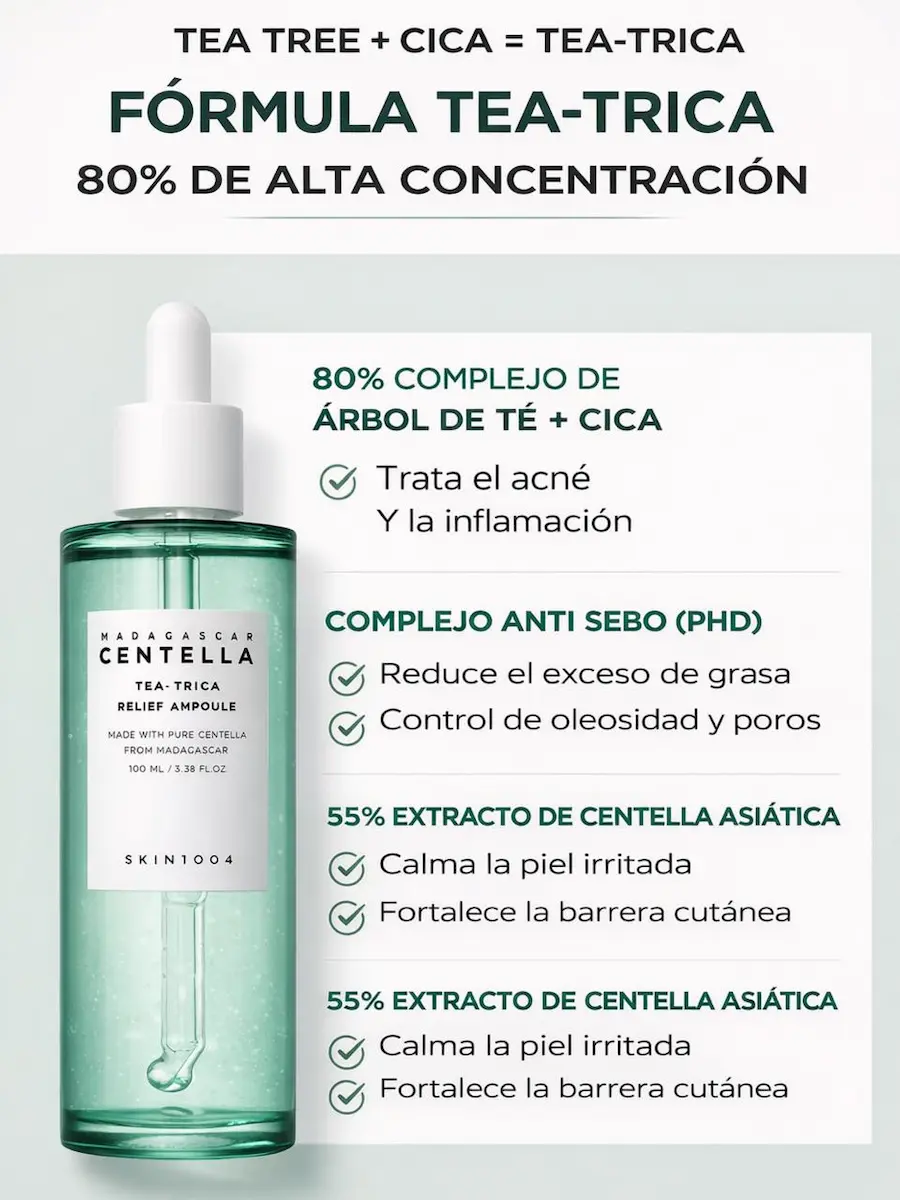
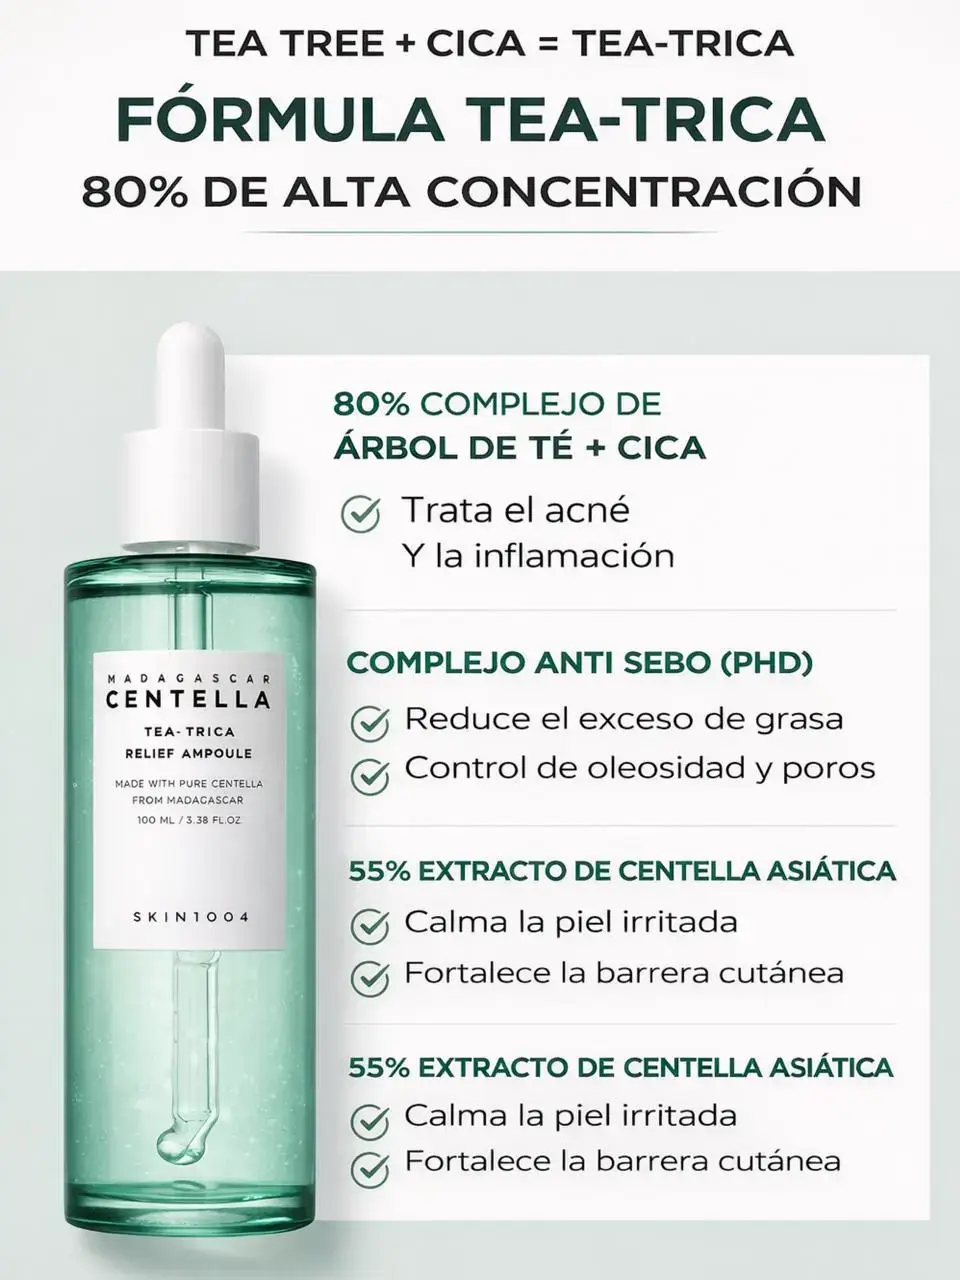
images

Changed region(s): [[0.56, 0.3392, 0.5911, 0.37]]

diff --git a/src/data/products.ts b/src/data/products.ts
@@ -7,7 +7,7 @@ export const products: Product[] = [
     price: "$25.099",
     category: "Sérum",
     image: "/images/products/madagascar-centella-ampoule.webp",
-    gallery: ["/images/gallery/madagascar-centella-ampoule/2.jpeg", "/images/gallery/madagascar-centella-ampoule/3.jpeg"],
+    gallery: ["/images/gallery/madagascar-centella-ampoule/2.webp", "/images/gallery/madagascar-centella-ampoule/3.jpeg"],
     description: "<strong>Sérum de textura liviana pensado para calmar piel sensible, enrojecida, irritada o alterada por brotes.</strong> La centella asiática se usa para ayudar a disminuir la inflamación, reforzar la barrera cutánea y mejorar la recuperación de la piel cuando está reactiva, deshidratada o sensibilizada por otros activos. Es una opción muy buena para quienes sienten tirantez, ardor, rojeces o piel “estresada”.",
     idealFor: "piel sensible, con rojeces, sensibilizada, mixta o con tendencia al acné."
   },
@@ -27,7 +27,7 @@ export const products: Product[] = [
     price: "$22.899",
     category: "Sérum",
     image: "/images/products/poremizing-fresh-ampoule.webp",
-    gallery: ["/images/gallery/poremizing-fresh-ampoule/2.jpeg", "/images/gallery/poremizing-fresh-ampoule/3.jpeg"],
+    gallery: ["/images/gallery/poremizing-fresh-ampoule/2.webp", "/images/gallery/poremizing-fresh-ampoule/3.jpeg"],
     description: "<strong>Sérum para quienes buscan una piel con menos brillo, textura más uniforme y poros visualmente menos marcados.</strong> Está orientado a ayudar a regular el exceso de grasa y a mejorar la apariencia de poros dilatados, sobre todo en zona T. Es útil en rutinas para piel mixta o grasa que quiere tratamiento específico pero con acabado liviano.",
     idealFor: "piel mixta/grasa, poros visibles, textura irregular."
   },
@@ -37,7 +37,7 @@ export const products: Product[] = [
     price: "$20.999",
     category: "Sérum",
     image: "/images/products/tone-brightening-capsule-ampoule.webp",
-    gallery: ["/images/gallery/tone-brightening-capsule-ampoule/2.jpeg", "/images/gallery/tone-brightening-capsule-ampoule/3.jpeg"],
+    gallery: ["/images/gallery/tone-brightening-capsule-ampoule/2.webp", "/images/gallery/tone-brightening-capsule-ampoule/3.jpeg"],
     description: "<strong>Sérum iluminador pensado para tono desigual, piel apagada, marcas post-acné o manchas leves.</strong> Su función principal es ayudar a que la piel se vea más luminosa, pareja y descansada, mejorando visualmente la opacidad. Es una buena opción cuando la preocupación principal no es el acné activo, sino las marcas o falta de brillo.",
     idealFor: "piel opaca, con manchas, marcas post-brote o tono desparejo."
   },
@@ -47,7 +47,7 @@ export const products: Product[] = [
     price: "$30.499",
     category: "Sérum",
     image: "/images/products/probio-cica-intensive-ampoule.webp",
-    gallery: ["/images/gallery/probio-cica-intensive-ampoule/2.jpeg", "/images/gallery/probio-cica-intensive-ampoule/3.jpeg"],
+    gallery: ["/images/gallery/probio-cica-intensive-ampoule/2.webp", "/images/gallery/probio-cica-intensive-ampoule/3.jpeg"],
     description: "<strong>Sérum reparador pensado para reforzar la piel cuando está sensible, débil, deshidratada o fácilmente irritable.</strong> Ayuda a mejorar la sensación de confort, a reducir reactividad y a complementar rutinas de recuperación cutánea.",
     idealFor: "piel sensible, seca, enrojecida o sensibilizada por activos. Ideales para pieles maduras también."
   },
@@ -57,7 +57,7 @@ export const products: Product[] = [
     price: "$30.999",
     category: "Limpiador Facial",
     image: "/images/products/madagascar-centella-light-cleansing-oil.webp",
-    gallery: ["/images/gallery/madagascar-centella-light-cleansing-oil/2.jpeg", "/images/gallery/madagascar-centella-light-cleansing-oil/3.jpeg"],
+    gallery: ["/images/gallery/madagascar-centella-light-cleansing-oil/2.webp", "/images/gallery/madagascar-centella-light-cleansing-oil/3.jpeg"],
     description: "<strong>Aceite limpiador para el primer paso de la doble limpieza.</strong> Su función es disolver protector solar, maquillaje, exceso de sebo e impurezas acumuladas durante el día, ayudando a dejar la piel más limpia sin frotar de más. Es especialmente útil si se usa protector solar todos los días o maquillaje resistente.",
     idealFor: "todo tipo de piel; muy útil en rutinas nocturnas."
   },
@@ -67,7 +67,7 @@ export const products: Product[] = [
     price: "$28.399",
     category: "Limpiador Facial",
     image: "/images/products/madagascar-centella-ampoule-foam.webp",
-    gallery: ["/images/gallery/madagascar-centella-ampoule-foam/2.jpeg", "/images/gallery/madagascar-centella-ampoule-foam/3.jpeg"],
+    gallery: ["/images/gallery/madagascar-centella-ampoule-foam/2.webp", "/images/gallery/madagascar-centella-ampoule-foam/3.jpeg"],
     description: "<strong>Limpiador al agua pensado para el segundo paso de limpieza, o como limpiador principal si no usás maquillaje.</strong> Ayuda a retirar restos de suciedad y oleosidad sin dejar sensación agresiva. Al estar orientado a una línea de centella, apunta a una limpieza que se sienta más respetuosa con piel sensible o sensibilizada.",
     idealFor: "piel sensible, normal, mixta o quienes buscan limpieza sin resecar."
   },
@@ -77,7 +77,7 @@ export const products: Product[] = [
     price: "$28.099",
     category: "Limpiador Facial",
     image: "/images/products/poremizing-deep-cleansing-foam.webp",
-    gallery: ["/images/gallery/poremizing-deep-cleansing-foam/2.jpeg", "/images/gallery/poremizing-deep-cleansing-foam/3.jpeg"],
+    gallery: ["/images/gallery/poremizing-deep-cleansing-foam/2.webp", "/images/gallery/poremizing-deep-cleansing-foam/3.jpeg"],
     description: "<strong>Limpiador enfocado en piel con poros notorios, sensación de grasa y necesidad de limpieza más profunda.</strong> Ayuda a retirar suciedad y sebo acumulado para que la piel se vea más fresca y con textura más uniforme.",
     idealFor: "piel mixta, grasa o con tendencia a congestión."
   },
@@ -87,7 +87,7 @@ export const products: Product[] = [
     price: "$28.399",
     category: "Limpiador Facial",
     image: "/images/products/acne-skin-relief-cleanser.webp",
-    gallery: ["/images/gallery/acne-skin-relief-cleanser/2.jpeg", "/images/gallery/acne-skin-relief-cleanser/3.jpeg"],
+    gallery: ["/images/gallery/acne-skin-relief-cleanser/2.webp", "/images/gallery/acne-skin-relief-cleanser/3.jpeg"],
     description: "<strong>Limpiador orientado a piel con brotes, exceso de sebo y sensación de suciedad acumulada.</strong> Su función es acompañar rutinas antiacné limpiando la piel sin dejarla pesada, y ayudar a mantener una superficie más limpia para reducir congestión.",
     idealFor: "piel grasa, acneica o con brotes frecuentes."
   },
@@ -97,7 +97,7 @@ export const products: Product[] = [
     price: "$33.199",
     category: "Tónico",
     image: "/images/products/madagascar-centella-toning-toner.webp",
-    gallery: ["/images/gallery/madagascar-centella-toning-toner/2.jpeg", "/images/gallery/madagascar-centella-toning-toner/3.jpeg"],
+    gallery: ["/images/gallery/madagascar-centella-toning-toner/2.webp", "/images/gallery/madagascar-centella-toning-toner/3.jpeg"],
     description: "<strong>Tónico diseñado para usar después de limpiar, con foco en hidratar, suavizar y preparar la piel para que reciba mejor serums y cremas.</strong> Ayuda a que la piel no quede tirante después del lavado y aporta una primera capa de humectación. Puede venir muy bien cuando la piel está deshidratada pero no necesariamente seca.",
     idealFor: "todo tipo de piel, especialmente deshidratada o sensible."
   },
@@ -107,7 +107,7 @@ export const products: Product[] = [
     price: "$31.399",
     category: "Tónico",
     image: "/images/products/poremizing-toner.webp",
-    gallery: ["/images/gallery/poremizing-toner/2.jpeg", "/images/gallery/poremizing-toner/3.jpeg"],
+    gallery: ["/images/gallery/poremizing-toner/2.webp", "/images/gallery/poremizing-toner/3.jpeg"],
     description: "<strong>Tónico pensado para complementar una rutina orientada a poros, textura y control de oleosidad.</strong> Ayuda a que la piel se vea más equilibrada y a mantener una sensación más fresca después de la limpieza.",
     idealFor: "piel con poros visibles, mixta o grasa."
   },
@@ -117,7 +117,7 @@ export const products: Product[] = [
     price: "$34.299",
     category: "Tónico",
     image: "/images/products/probio-cica-essence-toner.webp",
-    gallery: ["/images/gallery/probio-cica-essence-toner/2.jpeg", "/images/gallery/probio-cica-essence-toner/3.jpeg"],
+    gallery: ["/images/gallery/probio-cica-essence-toner/2.webp", "/images/gallery/probio-cica-essence-toner/3.jpeg"],
     description: "<strong>Tónico con enfoque reparador, pensado para piel que necesita calma + hidratación + refuerzo de barrera.</strong> La combinación “cica + ceramidas” apunta a ayudar en casos de piel frágil, sensibilizada o que pierde agua con facilidad.",
     idealFor: "piel sensible, seca, deshidratada o con barrera debilitada, y pieles maduras."
   },
@@ -127,7 +127,7 @@ export const products: Product[] = [
     price: "$32.699",
     category: "Crema Hidratante",
     image: "/images/products/madagascar-centella-soothing-cream.webp",
-    gallery: ["/images/gallery/madagascar-centella-soothing-cream/2.jpeg", "/images/gallery/madagascar-centella-soothing-cream/3.jpeg"],
+    gallery: ["/images/gallery/madagascar-centella-soothing-cream/2.webp", "/images/gallery/madagascar-centella-soothing-cream/3.jpeg"],
     description: "<strong>Crema hidratante pensada para calmar, sellar hidratación y mantener la piel confortable.</strong> Ayuda a disminuir la sensación de ardor, tirantez o sensibilidad, y acompaña bien rutinas donde se usan activos más fuertes o donde la piel necesita recuperación.",
     idealFor: "piel sensible, enrojecida, deshidratada o alterada."
   },
@@ -137,7 +137,7 @@ export const products: Product[] = [
     price: "$27.599",
     category: "Crema Hidratante",
     image: "/images/products/poremizing-light-gel-cream.webp",
-    gallery: ["/images/gallery/poremizing-light-gel-cream/whatsapp-image-2026-03-17-at-10.13.27-pm.jpeg", "/images/gallery/poremizing-light-gel-cream/whatsapp-image-2026-03-17-at-10.13.28-pm-(1).jpeg", "/images/gallery/poremizing-light-gel-cream/whatsapp-image-2026-03-17-at-10.13.28-pm.jpeg"],
+    gallery: ["/images/gallery/poremizing-light-gel-cream/2.webp", "/images/gallery/poremizing-light-gel-cream/3.jpeg"],
     description: "<strong>Hidratante en gel de textura liviana, ideal para quienes necesitan hidratación pero no toleran cremas pesadas.</strong> Está pensada para dejar la piel hidratada, más fresca y sin sensación grasosa, acompañando rutinas de poros o control de sebo.",
     idealFor: "piel mixta, grasa o con tendencia a brillo."
   },
@@ -147,7 +147,7 @@ export const products: Product[] = [
     price: "$34.099",
     category: "Crema Hidratante",
     image: "/images/products/probio-cica-enrich-cream.webp",
-    gallery: ["/images/gallery/probio-cica-enrich-cream/2.jpeg", "/images/gallery/probio-cica-enrich-cream/3.jpeg"],
+    gallery: ["/images/gallery/probio-cica-enrich-cream/2.webp", "/images/gallery/probio-cica-enrich-cream/3.jpeg"],
     description: "<strong>Crema pensada para reforzar la barrera cutánea y mejorar la retención de hidratación.</strong> Está más orientada a pieles que sienten sequedad, descamación, sensibilidad o incomodidad, y que necesitan una crema con rol más reparador y protector.",
     idealFor: "piel seca, sensibilizada, con barrera alterada o deshidratada."
   },
@@ -157,7 +157,7 @@ export const products: Product[] = [
     price: "$27.799",
     category: "Crema Hidratante",
     image: "/images/products/tea-trica-intensive-soothing-cream.webp",
-    gallery: ["/images/gallery/tea-trica-intensive-soothing-cream/2.jpeg", "/images/gallery/tea-trica-intensive-soothing-cream/3.jpeg"],
+    gallery: ["/images/gallery/tea-trica-intensive-soothing-cream/2.webp", "/images/gallery/tea-trica-intensive-soothing-cream/3.jpeg"],
     description: "<strong>Crema calmante enfocada en piel irritada, enrojecida o sensibilizada.</strong> Su objetivo dentro de la rutina es bajar la sensación de incomodidad, aportar confort y ayudar a mantener la piel más estable cuando está reactiva.",
     idealFor: "piel sensible, con rojeces, alterada o reseca."
   },
@@ -167,7 +167,7 @@ export const products: Product[] = [
     price: "$30.999",
     category: "Protector Solar",
     image: "/images/products/hyalu-cica-water-fit-sun-serum-fps-50+.webp",
-    gallery: ["/images/gallery/hyalu-cica-water-fit-sun-serum-fps-50+/2.jpeg", "/images/gallery/hyalu-cica-water-fit-sun-serum-fps-50+/3.jpeg"],
+    gallery: ["/images/gallery/hyalu-cica-water-fit-sun-serum-fps-50+/2.webp", "/images/gallery/hyalu-cica-water-fit-sun-serum-fps-50+/3.jpeg"],
     description: "<strong>Protector solar de uso diario con textura tipo sérum, pensado para quienes quieren protección alta sin sensación pesada ni acabado pastoso.</strong> Ayuda a proteger la piel del daño solar que favorece manchas, envejecimiento prematuro y sensibilización, mientras deja un acabado más hidratante y cómodo que un protector tradicional muy denso.",
     idealFor: "todo tipo de piel, especialmente quienes buscan un protector liviano para uso diario."
   },
@@ -177,7 +177,7 @@ export const products: Product[] = [
     price: "$28.999",
     category: "Protector Solar",
     image: "/images/products/smooth-milk-type-sunscreen-fps-50+.webp",
-    gallery: ["/images/gallery/smooth-milk-type-sunscreen-fps-50+/2.jpeg", "/images/gallery/smooth-milk-type-sunscreen-fps-50+/3.jpeg"],
+    gallery: ["/images/gallery/smooth-milk-type-sunscreen-fps-50+/2.webp", "/images/gallery/smooth-milk-type-sunscreen-fps-50+/3.jpeg"],
     description: "<strong>Protector solar de textura tipo leche, pensado para quienes buscan una aplicación más fluida, ligera y pareja.</strong> Ayuda a proteger del daño solar diario mientras deja una sensación más liviana que un protector denso.",
     idealFor: "uso diario, personas que prefieren texturas fluidas."
   },
@@ -187,7 +187,7 @@ export const products: Product[] = [
     price: "$31.999",
     category: "Protector Solar",
     image: "/images/products/hyalu-cica-silky-fit-sun-stick-fps-50+.webp",
-    gallery: ["/images/gallery/hyalu-cica-silky-fit-sun-stick-fps-50+/2.jpeg", "/images/gallery/hyalu-cica-silky-fit-sun-stick-fps-50+/3.jpeg"],
+    gallery: ["/images/gallery/hyalu-cica-silky-fit-sun-stick-fps-50+/2.webp", "/images/gallery/hyalu-cica-silky-fit-sun-stick-fps-50+/3.jpeg"],
     description: "<strong>Protector solar en barra pensado especialmente para la reaplicación durante el día.</strong> Sirve mucho para zonas expuestas como frente, pómulos, nariz y mentón, y es práctico para llevar en cartera. Ayuda a mantener la protección solar sin necesidad de ensuciarse las manos y suele ser cómodo para retocar encima del maquillaje o en salidas.",
     idealFor: "reaplicación, uso urbano, personas prácticas, piel normal/mixta."
   },
@@ -197,7 +197,7 @@ export const products: Product[] = [
     price: "$29.999",
     category: "Corrector de Ojos",
     image: "/images/products/bakuchiol-eye-cream.webp",
-    gallery: ["/images/gallery/bakuchiol-eye-cream/2.jpeg", "/images/gallery/bakuchiol-eye-cream/3.jpeg"],
+    gallery: ["/images/gallery/bakuchiol-eye-cream/2.webp", "/images/gallery/bakuchiol-eye-cream/3.jpeg"],
     description: "<strong>Contorno de ojos orientado a líneas finas, falta de elasticidad y aspecto cansado en la zona periocular.</strong> El bakuchiol suele usarse como alternativa cosmética suave para trabajar signos de edad, ayudando a que el contorno se vea más liso, hidratado y descansado.",
     idealFor: "primeras líneas, sequedad en contorno, mirada cansada."
   },
@@ -207,7 +207,7 @@ export const products: Product[] = [
     price: "$25.099",
     category: "Mascarilla",
     image: "/images/products/poremizing-quick-clay-stick-mask.webp",
-    gallery: ["/images/gallery/poremizing-quick-clay-stick-mask/2.jpeg", "/images/gallery/poremizing-quick-clay-stick-mask/3.jpeg"],
+    gallery: ["/images/gallery/poremizing-quick-clay-stick-mask/2.webp", "/images/gallery/poremizing-quick-clay-stick-mask/3.jpeg"],
     description: "<strong>Mascarilla de arcilla en barra orientada a limpieza de poros, control de oleosidad y mejora visual de puntos negros.</strong> Al mismo tiempo, el enfoque en centella sugiere una acción más amable con la piel que una arcilla muy agresiva.",
     idealFor: "piel mixta/grasa, poros, brillo y congestión."
   },
@@ -217,7 +217,7 @@ export const products: Product[] = [
     price: "$6.000",
     category: "Mascarilla",
     image: "/images/products/mascarillas-poremizing-clarifying-centella.webp",
-    gallery: ["/images/gallery/mascarillas-poremizing-clarifying-centella/2.jpeg"],
+    gallery: ["/images/gallery/mascarillas-poremizing-clarifying-centella/2.webp"],
     description: "<strong>Mascarilla de tela pensada para dar un extra de hidratación y calma en poco tiempo.</strong> Es útil cuando la piel se siente cansada, tirante, apagada o sensibilizada, porque deja una sensación más fresca y confortable.",
     idealFor: "piel deshidratada, sensible o como “rescate” antes de un evento."
   }